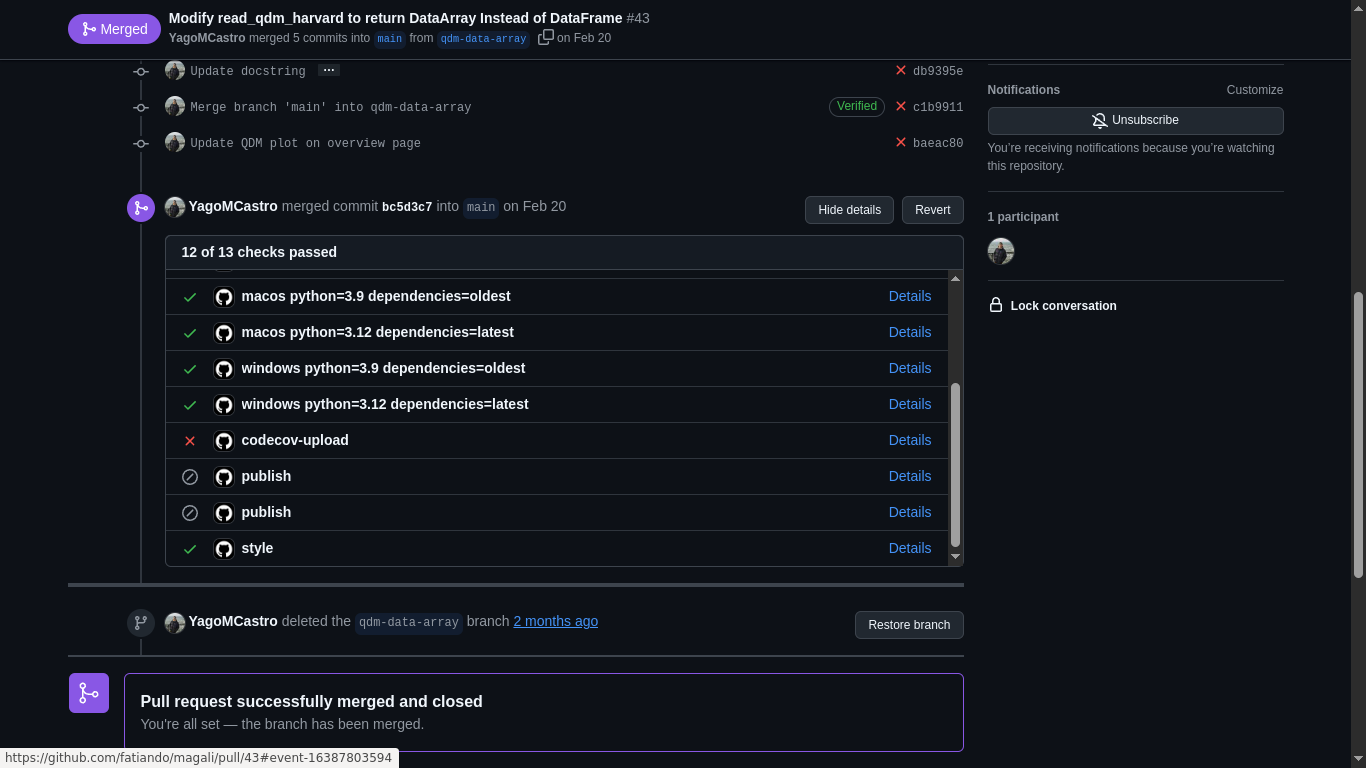
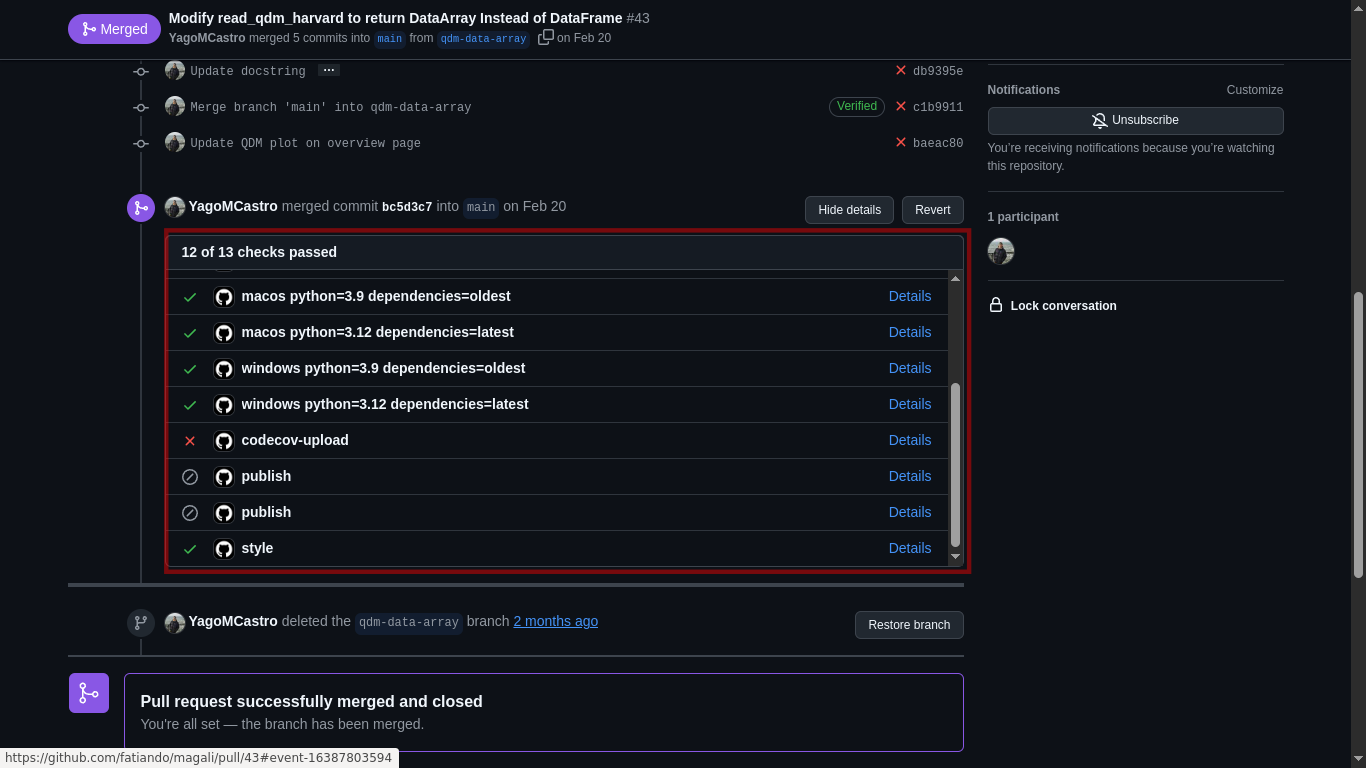
Add boxes arround github elements

Changed region(s): [[0.123, 0.3125, 0.7379, 0.75], [0.123, 0.2812, 0.7072, 0.3125]]

diff --git a/slides.md b/slides.md
@@ -694,10 +694,22 @@ $$\mathbf{A}^T\mathbf{A}\mathbf{m} = \mathbf{A}^T\mathbf{d}^{o}$$
 <!-- .slide: data-background-opacity="1" data-background-image="assets/github.png"  data-background-size="contain" data-background-color="#262626" -->
 
 ===============================================================================
+<!-- .slide: data-background-opacity="1" data-background-image="assets/github_1.png"  data-background-size="contain" data-background-color="#262626" -->
+
+===============================================================================
+<!-- .slide: data-background-opacity="1" data-background-image="assets/github_readme.png"  data-background-size="contain" data-background-color="#262626" -->
+
+===============================================================================
 <!-- .slide: data-background-opacity="1" data-background-image="assets/pull_requests.png"  data-background-size="contain" data-background-color="#262626" -->
 
 ===============================================================================
 <!-- .slide: data-background-opacity="1" data-background-image="assets/pull_request_details.png"  data-background-size="contain" data-background-color="#262626" -->
+
+===============================================================================
+<!-- .slide: data-background-opacity="1" data-background-image="assets/pull_request_details_1.png"  data-background-size="contain" data-background-color="#262626" -->
+
+===============================================================================
+<!-- .slide: data-background-opacity="1" data-background-image="assets/pull_request_details_2.png"  data-background-size="contain" data-background-color="#262626" -->
 
 ===============================================================================
 <!-- .slide: data-background-opacity="1" data-background-image="assets/checks.png"  data-background-size="contain" data-background-color="#262626" -->
